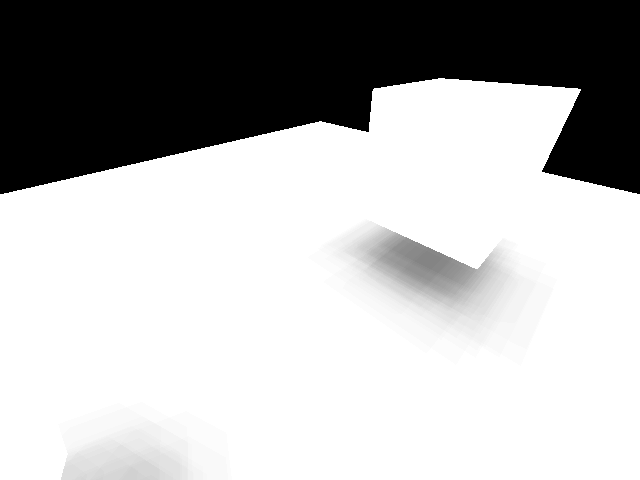
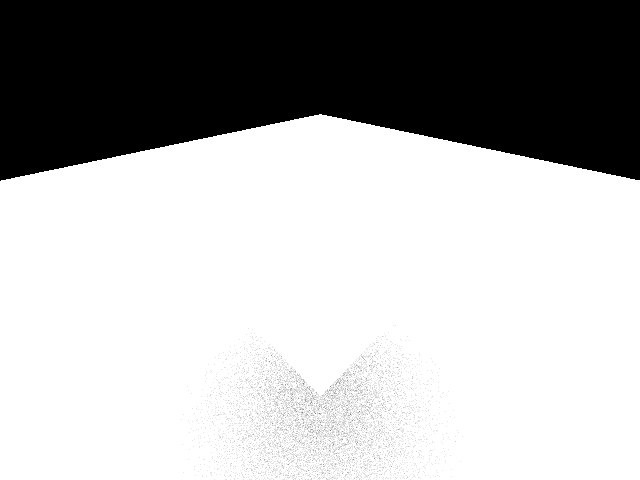
addMaterial

diff --git a/ray_tracer.cpp b/ray_tracer.cpp
@@ -3,11 +3,11 @@
 #include <glm/ext.hpp>
 #include <random>
 
-#include "xorshift128plus.hpp"
 #include "ray_tracer.hpp"
 
 glm::vec3 RayTracer::renderPixel(RTCScene scene, const RayTracerCamera &camera,
-                                 float x, float y) {
+                                 xorshift128plus_state &randomState, float x,
+                                 float y) {
     const auto tnear = camera.getNear();
     const auto tfar = camera.getFar();
     const auto cameraFrom = camera.getCameraOrigin();
@@ -69,32 +69,26 @@ glm::vec3 RayTracer::renderPixel(RTCScene scene, const RayTracerCamera &camera,
 
         /* add light contribution */
         if (shadow.tfar == tfar) {
-            color = color + diffuse * std::clamp(-glm::dot(lightDir, normal), 0.0f, 1.0f);
+            color = color + diffuse * std::clamp(-glm::dot(lightDir, normal),
+                                                 0.0f, 1.0f);
         }
 
         if (aoSample > 0) {
-            xorshift128plus_state state;
-            state.a = 0x8a5cd789635d2dff;
-            state.b = 0x0000000000000000;
-
-            //std::random_device rnd;
-            //std::mt19937 mt(rnd());
-            //auto randomFloat = std::uniform_real_distribution<float>(0.0f, 1.0f);
-
             glm::vec3 p;
             auto r = 1.0f;
             auto r2 = r * r;
-
             auto hit = 0;
             for (auto i = 0; i < aoSample; i++) {
                 do {
-                    //p = 2.0f * r * glm::vec3(randomFloat(mt), randomFloat(mt), randomFloat(mt)) - glm::vec3(r, r, r);
-
-                    const auto range = 1.8446744e+19;
-                    p = 2.0f * r * glm::vec3(
-                                (float)(xorshift128plus(&state) / range),
-                                (float)(xorshift128plus(&state) / range),
-                                (float)(xorshift128plus(&state) / range)) - glm::vec3(r, r, r);
+                    const auto range = UINT64_MAX;
+                    p = 2.0f * r *
+                            glm::vec3((float)(xorshift128plus(&randomState) /
+                                              (double)(UINT64_MAX)),
+                                      (float)(xorshift128plus(&randomState) /
+                                              (double)(UINT64_MAX)),
+                                      (float)(xorshift128plus(&randomState) /
+                                              (double)(UINT64_MAX))) -
+                        glm::vec3(r, r, r);
                 } while (glm::length2(p) >= r2);
 
                 auto org = hitOrig;
@@ -102,7 +96,7 @@ glm::vec3 RayTracer::renderPixel(RTCScene scene, const RayTracerCamera &camera,
                 auto dir = glm::normalize(target - org);
 
                 RTCRay occ;
-                auto tnear = 0.00001f;
+                auto tnear = 0.0001f;
                 auto tfar = glm::length(target - org);
                 occ.org_x = org.x;
                 occ.org_y = org.y;
@@ -131,6 +125,7 @@ glm::vec3 RayTracer::renderPixel(RTCScene scene, const RayTracerCamera &camera,
 
 /* renders a single screen tile */
 void RayTracer::renderTile(RTCScene scene, const RayTracerCamera &camera,
+                           xorshift128plus_state &randomState,
                            glm::u8vec3 *pixels, int tileIndex, int numTilesX,
                            int numTilesY) {
     const auto width = camera.getWidth();
@@ -146,9 +141,10 @@ void RayTracer::renderTile(RTCScene scene, const RayTracerCamera &camera,
     for (unsigned int y = y0; y < y1; y++)
         for (unsigned int x = x0; x < x1; x++) {
             /* calculate pixel color */
-            glm::vec3 color = renderPixel(
-                scene, camera, ((float)x / (float)width - 0.5f) * aspect,
-                (float)y / (float)height - 0.5f);
+            glm::vec3 color =
+                renderPixel(scene, camera, randomState,
+                            ((float)x / (float)width - 0.5f) * aspect,
+                            (float)y / (float)height - 0.5f);
 
             /* write color to framebuffer */
             const auto r = (uint8_t)(255.0f * std::clamp(color.x, 0.0f, 1.0f));
@@ -165,8 +161,16 @@ void RayTracer::render(RTCScene scene, const RayTracerCamera &camera,
     const auto numTilesX = (width + TILE_SIZE_X - 1) / TILE_SIZE_X;
     const auto numTilesY = (height + TILE_SIZE_Y - 1) / TILE_SIZE_Y;
 
-    tbb::parallel_for(
-        size_t(0), size_t(numTilesX * numTilesY), [&](size_t tileIndex) {
-            renderTile(scene, camera, pixels, tileIndex, numTilesX, numTilesY);
-        });
+    tbb::parallel_for(size_t(0), size_t(numTilesX * numTilesY),
+                      [&](size_t tileIndex) {
+                          std::mt19937 mt(tileIndex);
+                          auto randomInt64 = std::uniform_int<int64_t>(1, INT64_MAX);
+
+                          xorshift128plus_state randomState;
+                          randomState.a = randomInt64(mt);
+                          randomState.b = 0;
+
+                          renderTile(scene, camera, randomState, pixels,
+                                     tileIndex, numTilesX, numTilesY);
+                      });
 }

diff --git a/geometry.cpp b/geometry.cpp
@@ -280,6 +280,32 @@ void addMesh(const RTCDevice device, const RTCScene rtcScene,
 
         if (primitive.indices < 0) return;
 
+        auto gltfMaterial = model.materials[primitive.material];
+
+        auto baseColorFactor = glm::vec4(1.0f, 1.0f, 1.0f, 1.0f);
+        auto metallicFactor = 0.5f;
+        for (auto it = gltfMaterial.values.begin();
+             it != gltfMaterial.values.end(); ++it) {
+            const auto &name = it->first;
+            const auto &param = it->second;
+
+            if (name == "baseColorFactor") {
+                switch (param.number_array.size()) {
+                    case 4:
+                        baseColorFactor.a = param.number_array[3];
+                    case 3:
+                        baseColorFactor.b = param.number_array[2];
+                        baseColorFactor.g = param.number_array[1];
+                        baseColorFactor.r = param.number_array[0];
+                        break;
+                }
+            } else if (name == "metallicFactor") {
+                if (param.has_number_value) {
+                    metallicFactor = param.number_value;
+                }
+            }
+        }
+
         auto it(primitive.attributes.begin());
         auto itEnd(primitive.attributes.end());
 
@@ -309,11 +335,11 @@ void addMesh(const RTCDevice device, const RTCScene rtcScene,
                 indexAccessor.byteOffset + indexBufferView.byteOffset;
             const auto componentType = indexAccessor.componentType;
             const auto normalized = indexAccessor.normalized;
-            const auto buffer =
-                (uint16_t *)(model.buffers[indexBufferView.buffer].data.data() +
-                             byteOffset + byteStride * i);
+            const auto buffer = *(
+                uint16_t *)(model.buffers[indexBufferView.buffer].data.data() +
+                            byteOffset + byteStride * i);
 
-            triangles[i] = *buffer;
+            triangles[i] = buffer;
         }
 
         for (; it != itEnd; it++) {
@@ -469,7 +495,9 @@ void addMesh(const RTCDevice device, const RTCScene rtcScene,
         auto geomID = rtcAttachGeometry(rtcScene, rtcMesh);
         rtcReleaseGeometry(rtcMesh);
 
-        meshs.push_back(std::make_shared<Mesh>(geomID));
+        meshs.push_back(std::make_shared<Mesh>(
+            geomID,
+            std::make_shared<Material>(baseColorFactor, metallicFactor)));
     }
 }
 

diff --git a/main.cpp b/main.cpp
@@ -71,38 +71,38 @@ glm::dvec2 getWindowMousePos(GLFWwindow *window, const glm::u32vec2 &size) {
 }
 
 void addGeometryToScene(RTCDevice device, RTCScene scene) {
-    auto plane = addGroundPlane(device, scene,
+     auto plane = addGroundPlane(device, scene,
                                 glm::translate(glm::vec3(0.0f, -2.0f, 0.0f)) *
                                     glm::scale(glm::vec3(10.0f)));
-    auto cube =
-        addCube(device, scene, glm::translate(glm::vec3(-3.0f, 0.0f, 0.0f)));
-    auto sphere = addSphere(device, scene, 1.0f, 8, 6,
-                            glm::translate(glm::vec3(3.0f, 0.0f, 0.0f)));
+    // auto cube =
+    //    addCube(device, scene, glm::translate(glm::vec3(-3.0f, 0.0f, 0.0f)));
+    // auto sphere = addSphere(device, scene, 1.0f, 8, 6,
+    //                        glm::translate(glm::vec3(3.0f, 0.0f, 0.0f)));
 
-    //// add model
-    //tinygltf::Model model;
-    //tinygltf::TinyGLTF loader;
-    //std::string err;
-    //std::string warn;
-    //const auto ret =
-    //    loader.LoadBinaryFromFile(&model, &err, &warn, "Buggy.glb");
-    //if (ret) {
-    //    const auto box = addModel(device, scene, model);
-    //}
+    // add model
+    tinygltf::Model model;
+    tinygltf::TinyGLTF loader;
+    std::string err;
+    std::string warn;
+    const auto ret =
+        loader.LoadBinaryFromFile(&model, &err, &warn, "Box.glb");
+    if (ret) {
+        const auto box = addModel(device, scene, model);
+    }
 }
 
 int main(void) {
     auto device = rtcNewDevice("verbose=1");
     auto scene = rtcNewScene(device);
 
-	addGeometryToScene(device, scene);
+    addGeometryToScene(device, scene);
 
     auto raytracer = RayTracer();
     const auto width = 640u;
     const auto height = 480u;
 
     auto camera = RayTracerCamera(width, height, 120.0f, 0.001f, 1000.0f);
-    const auto eye = glm::vec3(1.5f, 1.5f, -1.5f);
+    const auto eye = glm::vec3(1.0f, 1.0f, -1.0f);
     const auto target = glm::vec3(0.0f, 0.0f, 0.0f);
     const auto up = glm::vec3(0.0f, 1.0f, 0.0f);
     camera.lookAt(eye, target, up);

diff --git a/ray_tracer.hpp b/ray_tracer.hpp
@@ -2,6 +2,7 @@
 #include <embree3/rtcore.h>
 #include <glm/glm.hpp>
 
+#include "xorshift128plus.hpp"
 #include "ray_tracer_camera.hpp"
 
 class RayTracer {
@@ -9,13 +10,13 @@ class RayTracer {
     const int32_t TILE_SIZE_X = 256;
     const int32_t TILE_SIZE_Y = 256;
 
-	const int32_t aoSample = 100;
+    const int32_t aoSample = 10;
 
     glm::vec3 renderPixel(RTCScene scene, const RayTracerCamera &camera,
-                          float x, float y);
+                          xorshift128plus_state &randomState, float x, float y);
     void renderTile(RTCScene scene, const RayTracerCamera &camera,
-                    glm::u8vec3 *pixels, int tileIndex, const int numTilesX,
-                    const int numTilesY);
+                    xorshift128plus_state &randomState, glm::u8vec3 *pixels,
+                    int tileIndex, const int numTilesX, const int numTilesY);
 
   public:
     void render(RTCScene scene, const RayTracerCamera &camera,

diff --git a/geometry.hpp b/geometry.hpp
@@ -8,7 +8,26 @@
 #include <embree3/rtcore.h>
 #include <tiny_gltf.h>
 
-class Material {};
+class Material {
+  public:
+    glm::vec4 baseColorFactor;
+    float metallicFactor;
+
+    Material() {
+        this->baseColorFactor = glm::vec4(1.0f, 1.0f, 1.0f, 1.0f);
+        this->metallicFactor = 0.0f;
+    }
+
+    Material(const glm::vec4& baseColorFactor) {
+        this->baseColorFactor = baseColorFactor;
+        this->metallicFactor = 0.0f;
+    }
+
+    Material(const glm::vec4& baseColorFactor, float metallicFactor) {
+        this->baseColorFactor = baseColorFactor;
+        this->metallicFactor = metallicFactor;
+    }
+};
 
 class Mesh {
   private:
